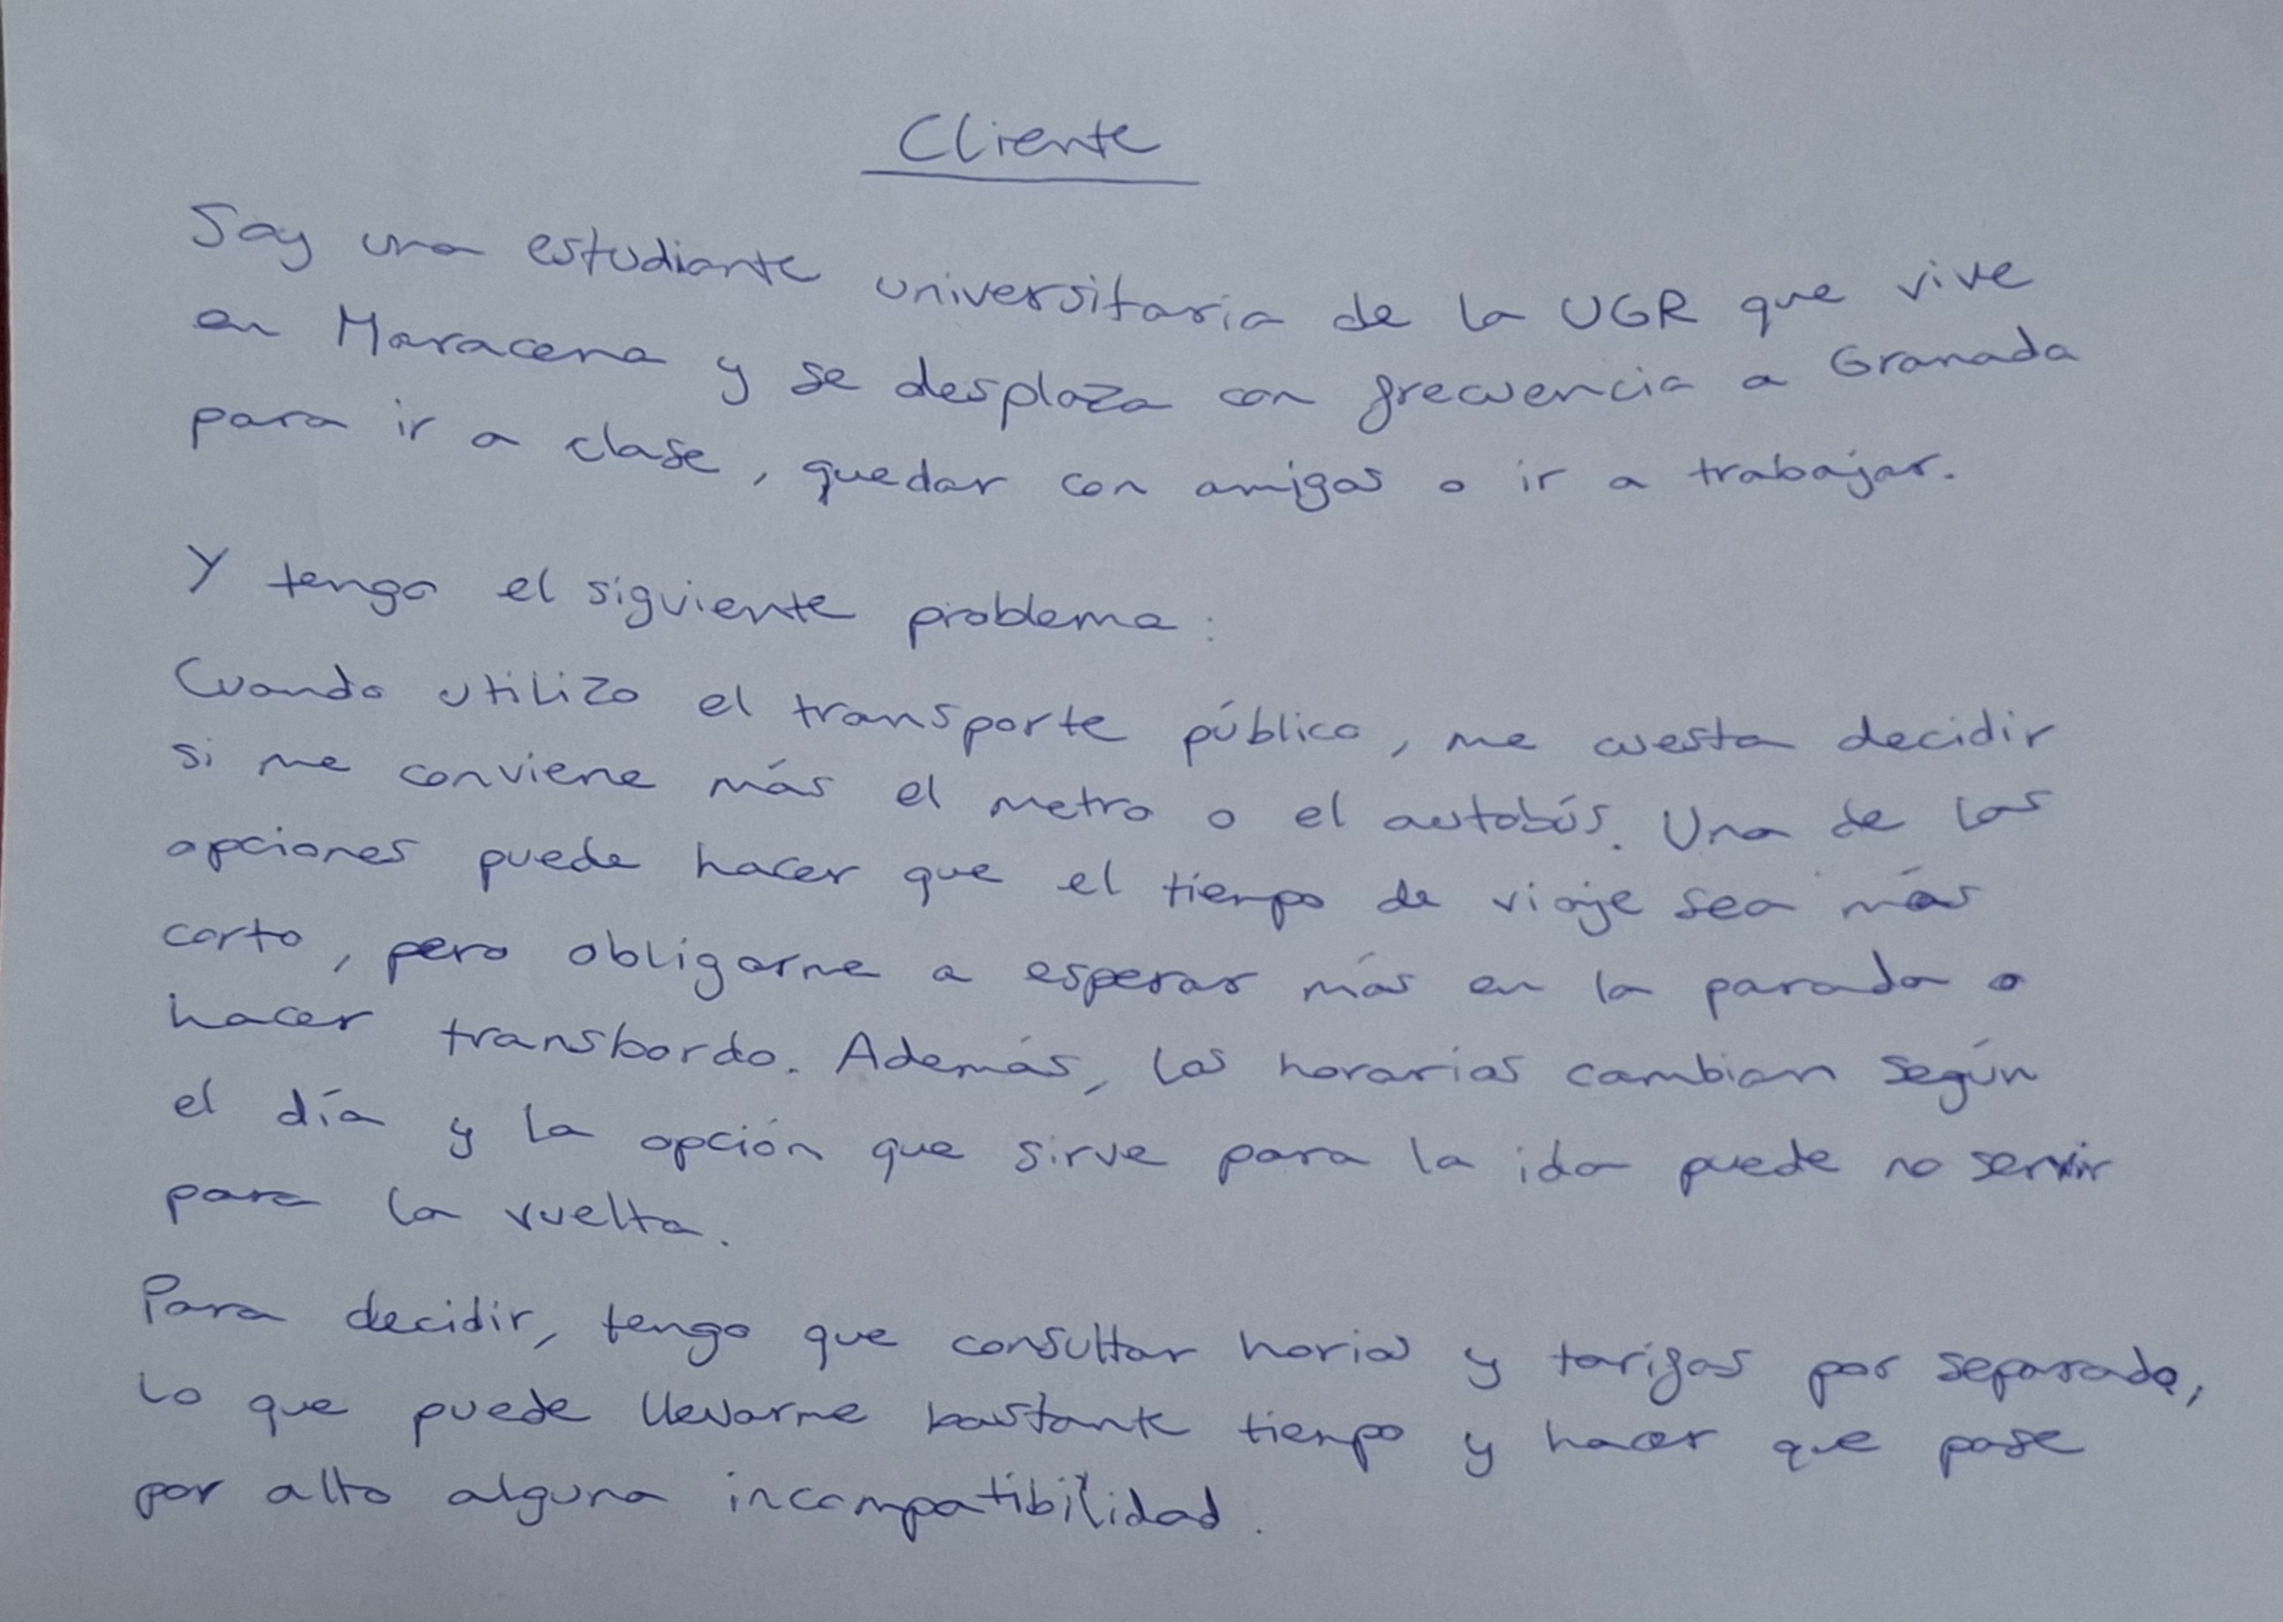
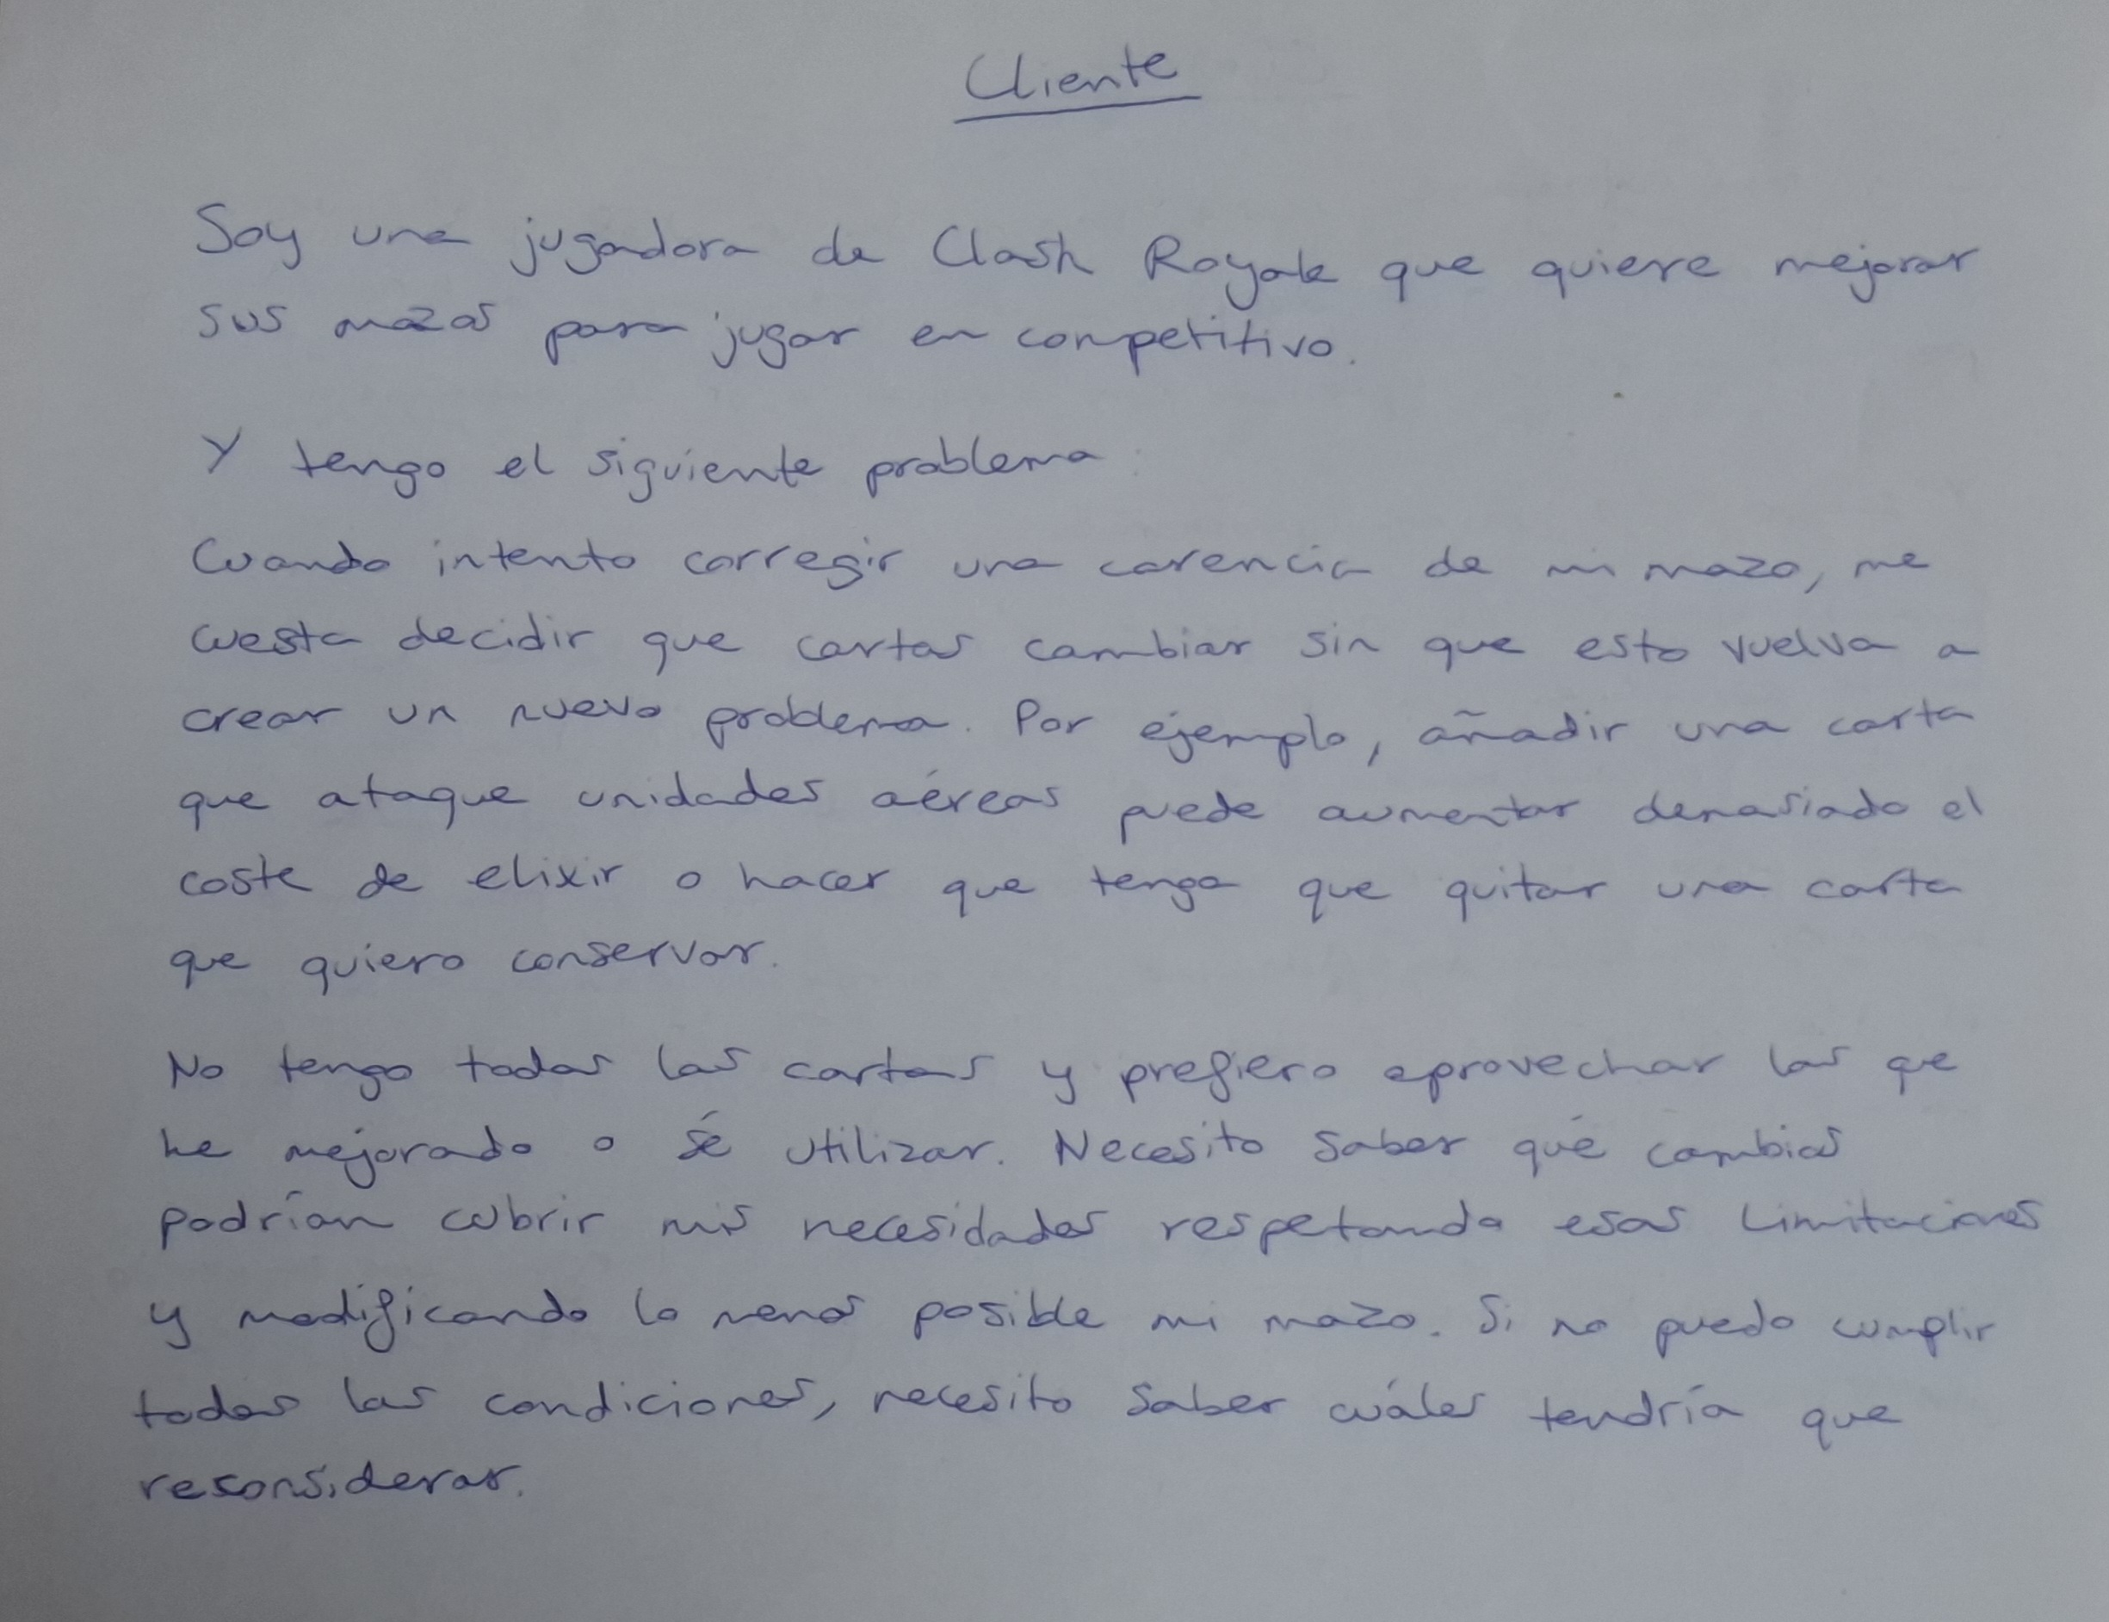
Nueva propuesta de proyecto

diff --git a/README.md b/README.md
@@ -1,66 +1,69 @@
-# GranadaGo
-Comparación de transporte público en el área metropolitana de Granada
+# RoyaleDeck
 
-## Procedencia del problema
+## Descripción del problema
 
-Vivo en Maracena y me desplazo con frecuencia dentro de la zona metropolitana de Granada para ir a la universidad, quedar con amigos o cuando tenía que ir a trabajar presencialmente. Aunque tengo carné y puedo utilizar el coche, prefiero utilizar el transporte público ya que encontrar aparcamiento en el centro es bastante complicado y dejarlo en el parking me sale muy caro. Sin embargo, tampoco siempre tengo claro qué transporte público encaja mejor con mis planes.
+Modificar un mazo de Clash Royale exige considerar cómo afecta cada cambio al conjunto. Una sustitución puede cubrir una carencia y, al mismo tiempo, aumentar demasiado el coste de elixir o eliminar una capacidad que se quería conservar.
 
-El metro puede resultar conveniente por su frecuencia, mientras que un autobús puede dejarme más cerca del destino. Sin embargo, además del tiempo de desplazamiento también influyen la espera, los posibles transbordos y las opciones disponibles para regresar.
+El problema consiste en determinar qué cambios permiten cubrir las necesidades del jugador utilizando las cartas disponibles, respetando las que desea mantener y su límite de coste medio de elixir. Se busca alterar lo menos posible el mazo original e identificar qué condiciones habría que reconsiderar cuando no puedan cumplirse todas.
 
-Las diferencias entre días laborables, fines de semana, festivos y temporadas complican estas comprobaciones. Un horario que sirve un día puede no estar disponible en otro. Asimismo, retrasar unos minutos la salida puede suponer tener que esperar al próximo servicio disponible y aumentar considerablemente el tiempo de espera.
+Este problema parte de mi experiencia como jugadora. La ficha del cliente recoge el contexto y las dificultades que motivan el proyecto.
 
-El coste también influye en mi decisión. Las tarifas dependen del medio de transporte, del título utilizado y, cuando corresponde, de las zonas y condiciones de transbordo. Por ello, comparar únicamente el precio de un primer trayecto puede no reflejar el importe del desplazamiento completo.
+## Alcance
 
-Consultar todo esto manualmente conlleva mucho tiempo, además del riesgo de pasar por alto alguna incompatibilidad.
+Las necesidades consideradas deberán expresarse mediante características comprobables de las cartas: coste de elixir, tipo y objetivos a los que pueden atacar.
 
-El proyecto parte de esta experiencia y se centra en los desplazamientos en transporte público entre Maracena, Albolote o Armilla y destinos concretos de Granada capital.
+La cobertura de un objetivo significa que el mazo contiene cartas capaces de atacarlo, pero no garantiza que puedan derrotar cualquier amenaza de ese tipo. El proyecto tampoco pretende predecir victorias ni identificar un mazo universalmente superior.
 
-## Delimitación del problema
+Los niveles de las cartas no se utilizarán para estimar resultados de combate. El jugador podrá indicar qué cartas quiere conservar por tenerlas mejoradas y cuáles acepta considerar como sustitutas.
 
-El ámbito inicial comprende desplazamientos entre paradas seleccionadas de Maracena, Albolote y Armilla y paradas de Granada capital, utilizando metro y autobuses metropolitanos o urbanos.
+El alcance inicial se limitará a las cartas cuyos atributos necesarios estén verificados en la versión del catálogo utilizada. No se asumirá que ese catálogo refleja todas las modificaciones posteriores del juego.
 
-La comparación se basa en los horarios programados. Estos permiten estudiar las alternativas previstas, pero no garantizan la puntualidad ni anticipan incidencias.
+## Procedencia de los datos
 
-Los recorridos a pie desde el origen o hasta el destino final solo se tendrán en cuenta cuando se disponga de duraciones conocidas y documentadas. En los demás casos, la comparación se realizará entre paradas.
+### Catálogo de cartas
 
-La duración del viaje en coche y la disponibilidad de aparcamiento quedan fuera del ámbito inicial, ya que no se dispone de datos suficientes para compararlas de forma fundamentada.
+Se utilizará el conjunto [Clash Royale Cards Data, de Nitesh Kakkar](https://www.kaggle.com/datasets/niteshkakkar/clash-royal-cards-data). La versión consultada fue actualizada el 30 de octubre de 2025 y contiene los archivos `clash_royale_cards_1.json` y `clash_royale_cards.xlsx`.
 
-## Fuentes de datos
+El JSON incluye 120 registros dentro de una lista denominada `items`. Los campos relevantes son:
 
-### Autobuses metropolitanos
+| Campo | Información |
+|---|---|
+| `id` | Identificador de la carta |
+| `name` | Nombre |
+| `elixirCost` | Coste de elixir |
+| `type` | Tipo de carta |
+| `targets` | Objetivos a los que puede atacar |
 
-El [Portal de Datos Abiertos de la Red de Consorcios de Transporte de Andalucía](https://api.ctan.es/) ofrece una [descarga del conjunto GTFS](https://api.ctan.es/v1/datos/UNIFICADO/gtfs.zip).
+Por ejemplo, el registro de Knight contiene el identificador `26000000`, un coste de elixir de `3`, el tipo `troop` y el objetivo `ground`.
 
-El archivo contiene información sobre líneas, paradas, expediciones, horas de llegada y salida y calendarios de servicio. Se ha comprobado que incluye líneas del área de Granada que dan servicio a Maracena, Albolote y Armilla.
+Los atributos ausentes o ambiguos no se completarán con valores inventados. Los registros que no permitan comprobar las condiciones del problema quedarán fuera del alcance hasta que puedan verificarse.
 
-Las [condiciones de reutilización](https://api.ctan.es/avisolegal.html) permiten utilizar la información para fines comerciales y no comerciales, respetando sus condiciones y citando la fuente.
+El conjunto declara licencia CC BY-NC-SA 4.0. Se conservarán la atribución al autor, la referencia a la licencia y la indicación de las modificaciones realizadas, respetando sus condiciones de uso no comercial y de distribución de adaptaciones. No se incorporarán las imágenes enlazadas desde el catálogo.
 
-### Autobuses urbanos de Granada
+La copia utilizada se incluirá en el repositorio junto con su procedencia y versión.
 
-La [página municipal del planificador de transporte público](http://www.movilidadgranada.com/bus_planificador.php) ofrece un [archivo GTFS descargable](http://www.movilidadgranada.com/gtfs/gtfs.zip).
+### Información aportada por el jugador
 
-Se ha comprobado que contiene líneas, paradas, expediciones, tiempos programados y calendarios. Se utilizarán estos archivos como fuente de datos, sin delegar los cálculos en el planificador externo de la página.
+Para describir su caso, el jugador indicará:
 
-### Metro de Granada
+- Las ocho cartas de su mazo actual.
+- Las cartas que quiere conservar.
+- Las cartas disponibles que acepta considerar como sustitutas.
+- Las condiciones que necesita cumplir, como el límite de coste medio de elixir y la cobertura de objetivos.
 
-El Metropolitano publica sus [horarios y frecuencias](https://metropolitanogranada.es/index.php/horarios).
+No será necesario introducir estadísticas, historiales de partidas ni toda la colección. Las alternativas se limitarán a las cartas indicadas por el jugador.
 
-También se ha inspeccionado una [copia del conjunto GTFS del Metro de Granada](https://files.mobilitydatabase.org/mdb-2784/mdb-2784-202607180029/mdb-2784-202607180029.zip), conservada por MobilityDatabase y procedente del Punto de Acceso Nacional de Transporte. Incluye tiempos por parada y calendarios, con servicios cuya vigencia alcanza diciembre de 2026.
+Los datos de referencia necesarios estarán dentro del repositorio. El funcionamiento no dependerá de consultas a APIs ni de bases de datos externas.
 
-Antes de incorporar este conjunto al repositorio se comprobarán las condiciones de reutilización aplicables y se documentarán su procedencia, fecha de obtención y periodo de vigencia.
+## Justificación del despliegue en la nube
 
-### Tarifas
+El problema afecta a jugadores con diferentes colecciones y restricciones, pero que utilizan un mismo catálogo de referencia.
 
-El Consorcio publica la [matriz de saltos y zonas](https://siu.ctagr.es/es/tarifas_saltos.php) y las [tarifas y condiciones de transbordo](https://siu.ctagr.es/es/tarifa.php).
+El despliegue en la nube resulta adecuado para ofrecer el análisis de combinaciones desde sus dispositivos, manteniendo una versión común de los datos y evitando que cada jugador tenga que instalar y mantener un entorno de ejecución.
 
-Estas referencias permiten identificar las reglas económicas del desplazamiento. Se conservará la fecha de vigencia de las tarifas utilizadas. Su incorporación no dependerá de consultas automáticas ni de scraping de estas páginas.
-
-### Tratamiento de las fuentes
-
-El procesamiento se realizará sobre archivos previamente descargados. La extracción de los campos necesarios y su interpretación se desarrollarán con código propio, sin bibliotecas externas que resuelvan la extracción ni servicios externos que calculen las alternativas.
-
-Se documentarán la procedencia y vigencia de cada conjunto para evitar mezclar horarios o tarifas correspondientes a periodos incompatibles.
+La dificultad requiere valorar conjuntamente las restricciones y los efectos de varias sustituciones. Por ello, el servicio previsto tendría una responsabilidad de procesamiento que va más allá de almacenar y consultar cartas.
 
 ## Imágenes relacionadas con las fichas del problema y la configuración de git
-![Ficha de cliente](/media/cliente.jpg)
-![Configuración del repositorio](/config/configuracion.md)
+
+- [Fotografía de la ficha del cliente](media/cliente.jpg).
+- [Configuración del repositorio](config/configuracion.md).
